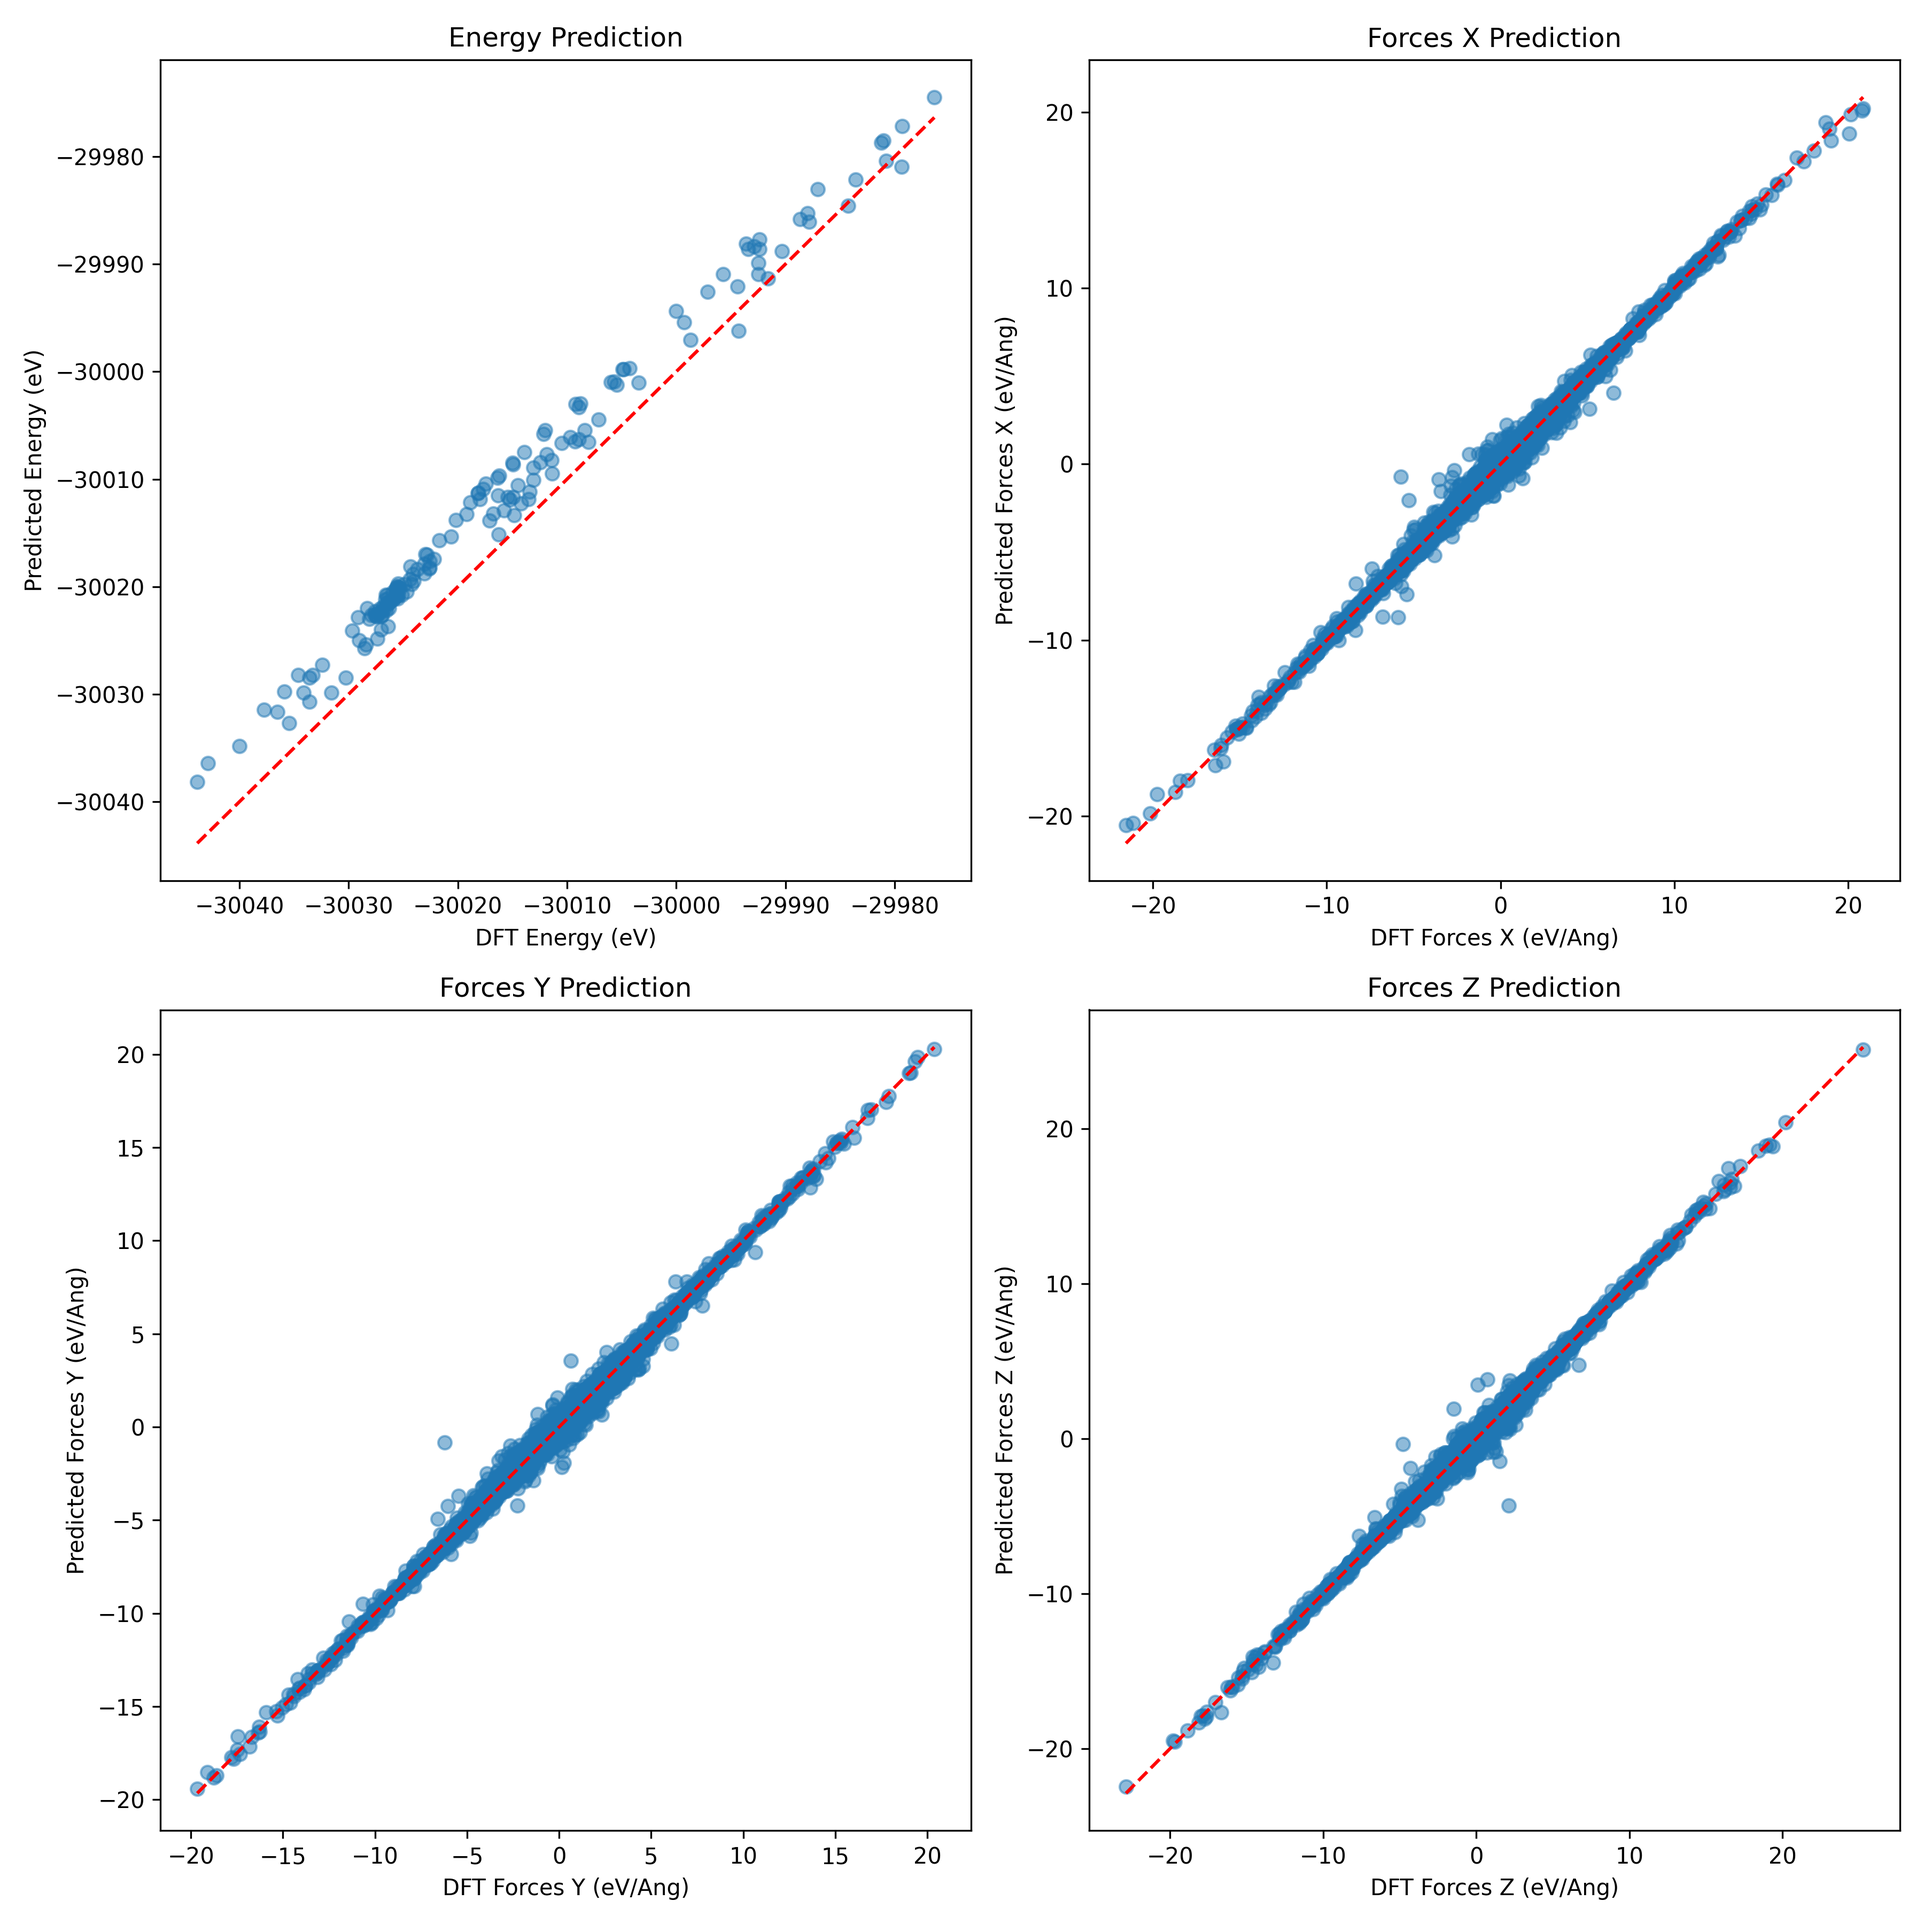
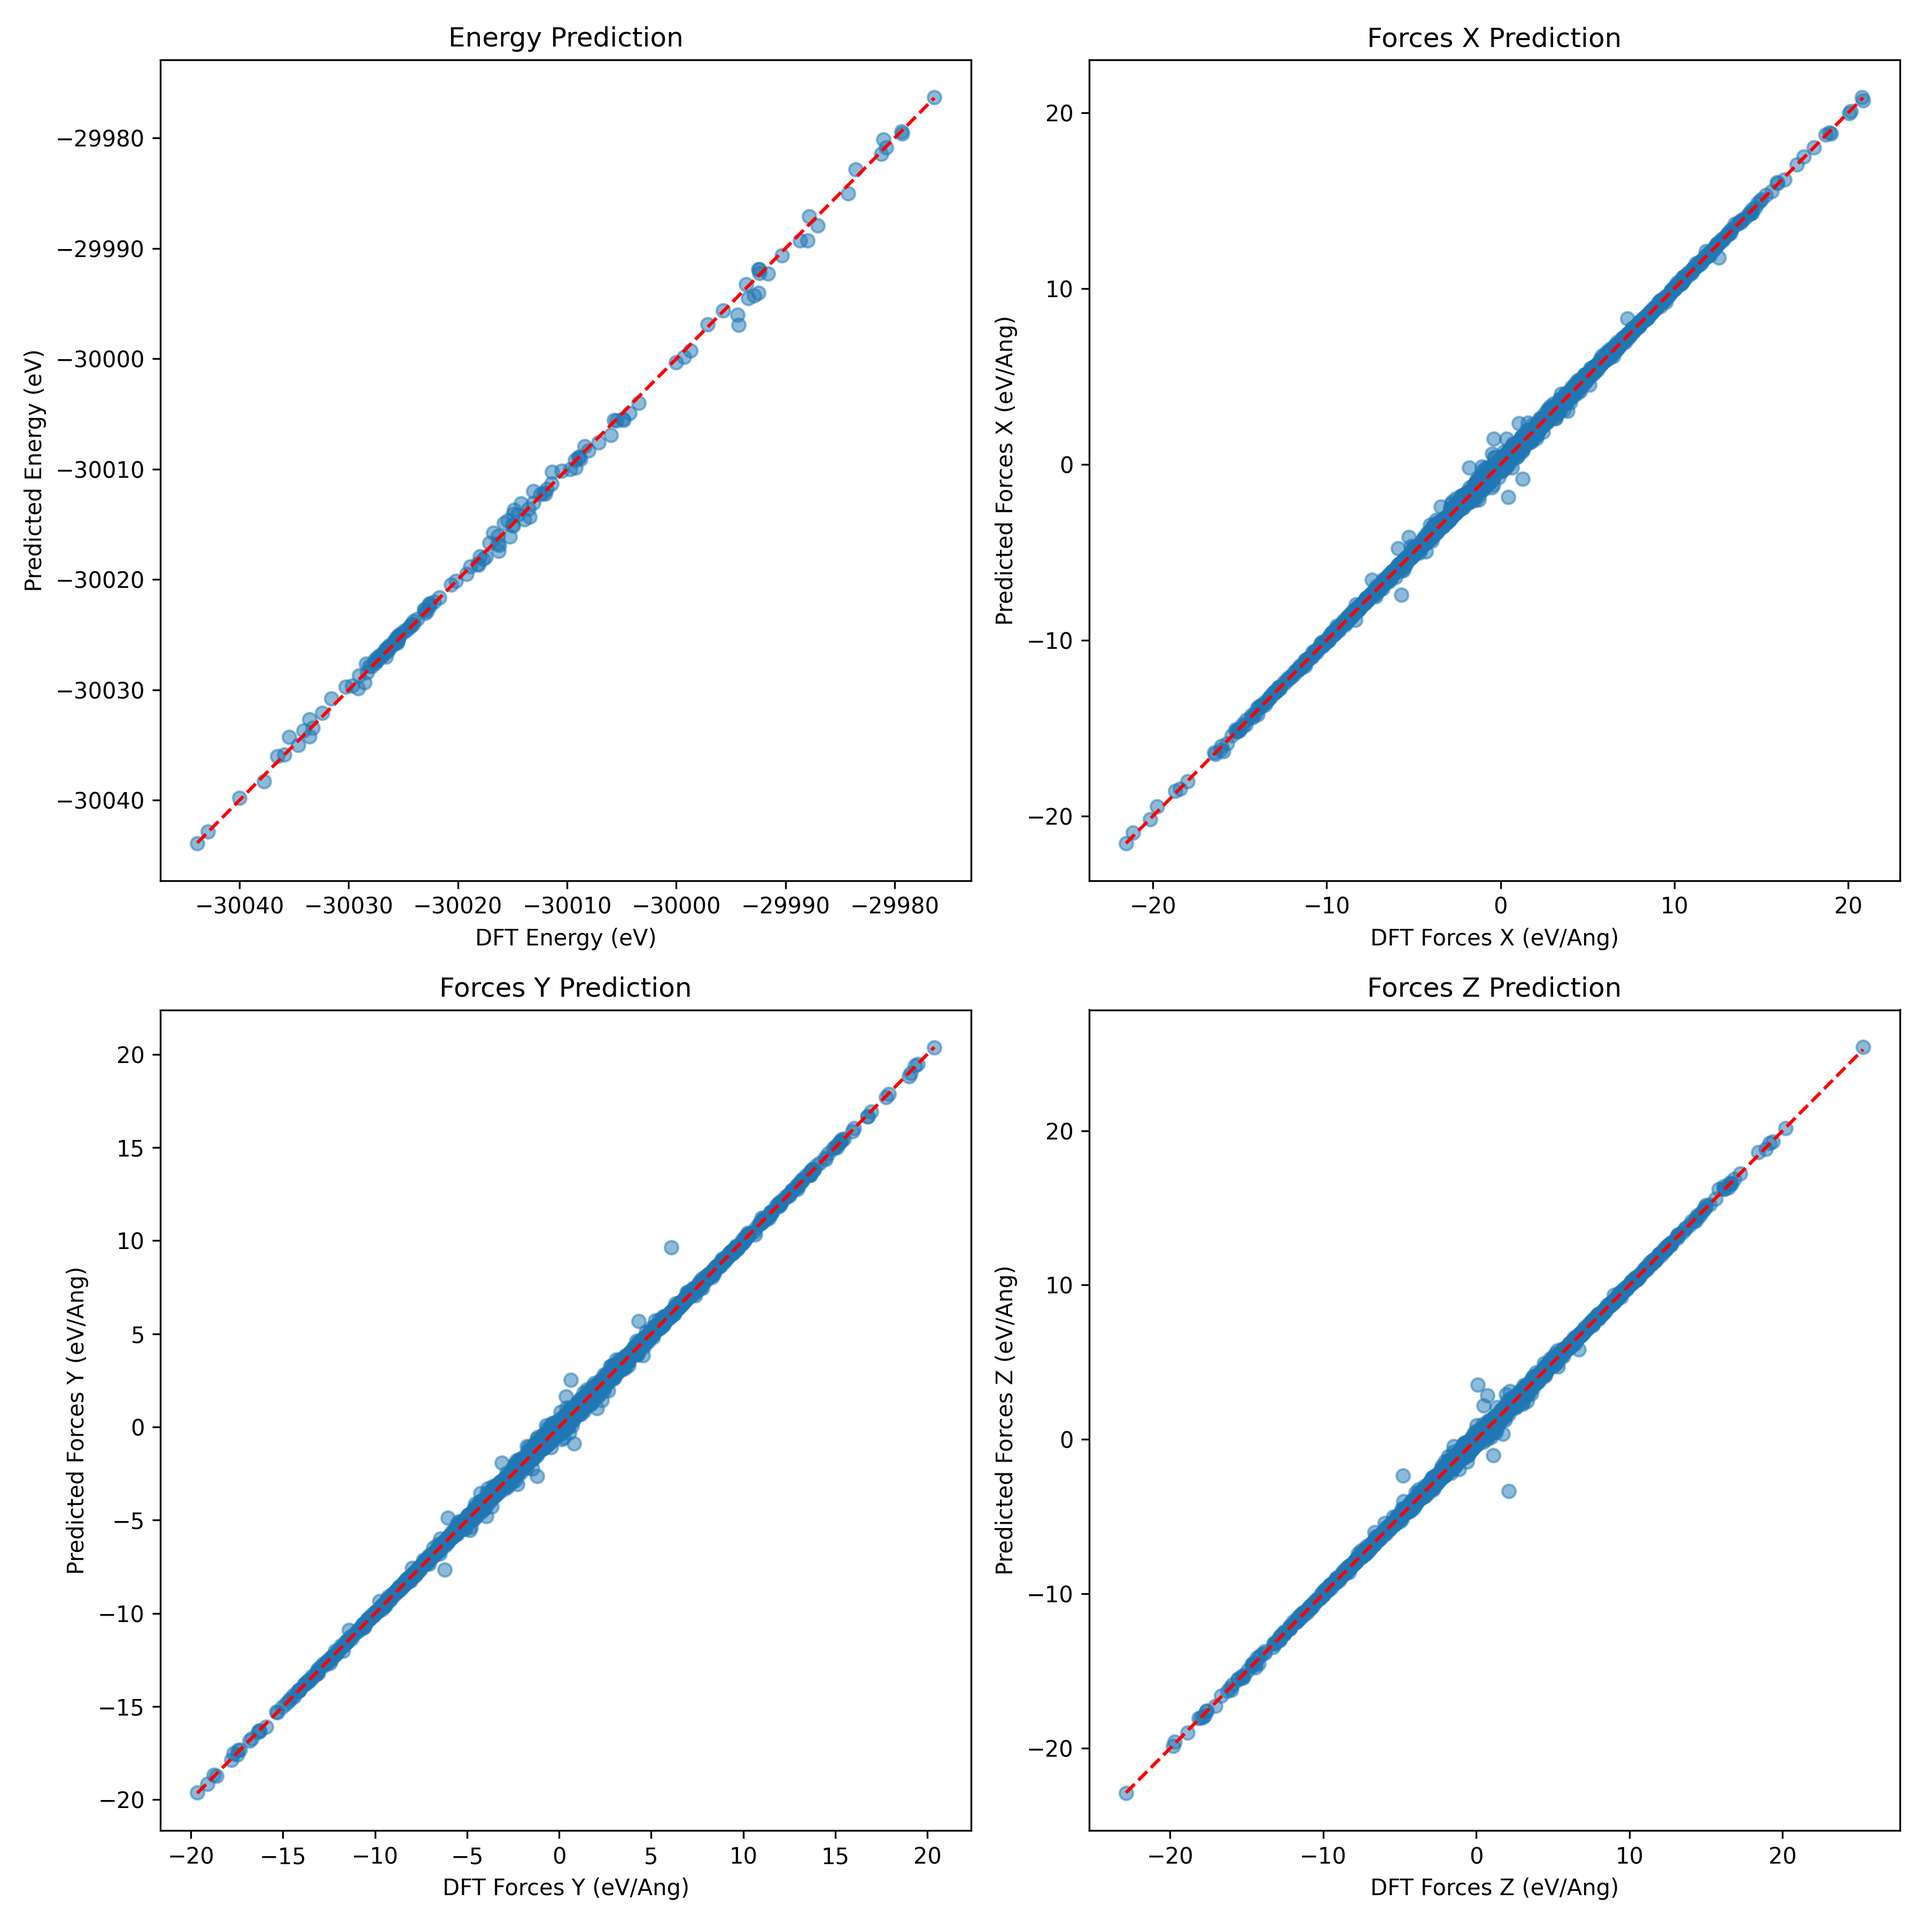
feat: update model checkpoint loading and adjust script execution for painn integration

diff --git a/examples/offline-distill/cace_distill.py b/examples/offline-distill/cace_distill.py
@@ -118,7 +118,7 @@ def main(args_dict: dict):
     
     val_atoms_list:list[Atoms] = read("./data/val_water_1593_eVAng.xyz", ":") # type: ignore
     
-    model = CACEStudentModel.load_from_checkpoint("./checkpoints/cace-best.ckpt", lazy_init_atoms=val_atoms_list[0])
+    model = CACEStudentModel.load_from_checkpoint(f"./checkpoints/cace-{args_dict['cutoff']}A-T={args_dict['num_message_passing']}.ckpt", lazy_init_atoms=val_atoms_list[0])
     calc = model.ase_calculator(device=f"cuda:{args_dict['devices'][0]}")
     
     energies = []

diff --git a/examples/offline-distill/single-gpu-md_speed_scaling.py b/examples/offline-distill/single-gpu-md_speed_scaling.py
@@ -126,7 +126,7 @@ if __name__ == "__main__":
     import argparse
 
     parser = argparse.ArgumentParser()
-    parser.add_argument("--model", type=str, default="./checkpoints/schnet-5.0A-T=3.ckpt")
+    parser.add_argument("--model", type=str, default="./checkpoints/painn-5.0A-T=3.ckpt")
     parser.add_argument("--thermo_state", type=str, default="NVT")
     parser.add_argument("--device", type=int, default=3)
     parser.add_argument("--timestep", type=float, default=1)

diff --git a/examples/offline-distill/schnet_distill.py b/examples/offline-distill/schnet_distill.py
@@ -100,8 +100,8 @@ def main(args_dict: dict):
         hparams = hparams.finalize(strict=False)
         return hparams
     
-    # train_config = hparams()
-    # model = MatterTuneOfflineDistillationTrainer(train_config).train()
+    train_config = hparams()
+    model = MatterTuneOfflineDistillationTrainer(train_config).train()
     
     from ase.io import read
     from ase import Atoms
